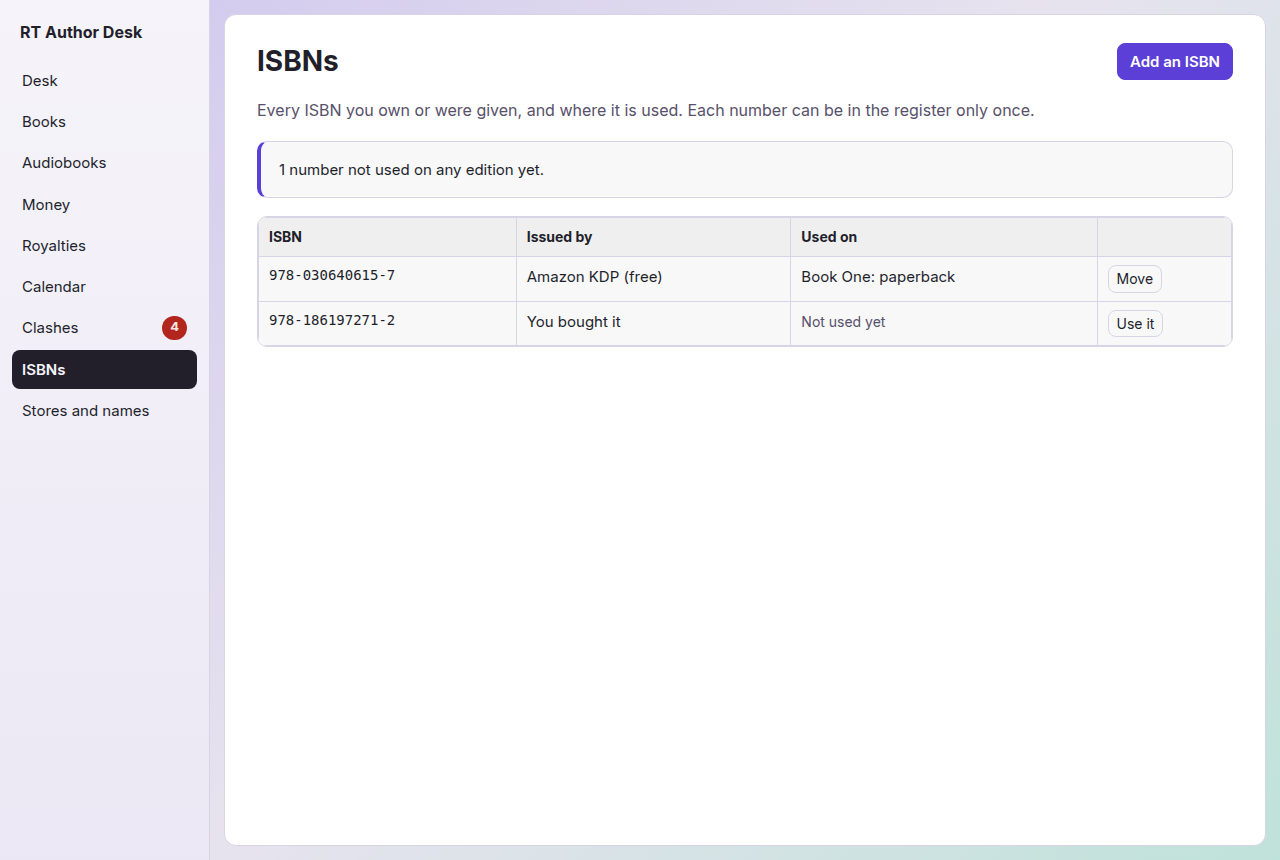
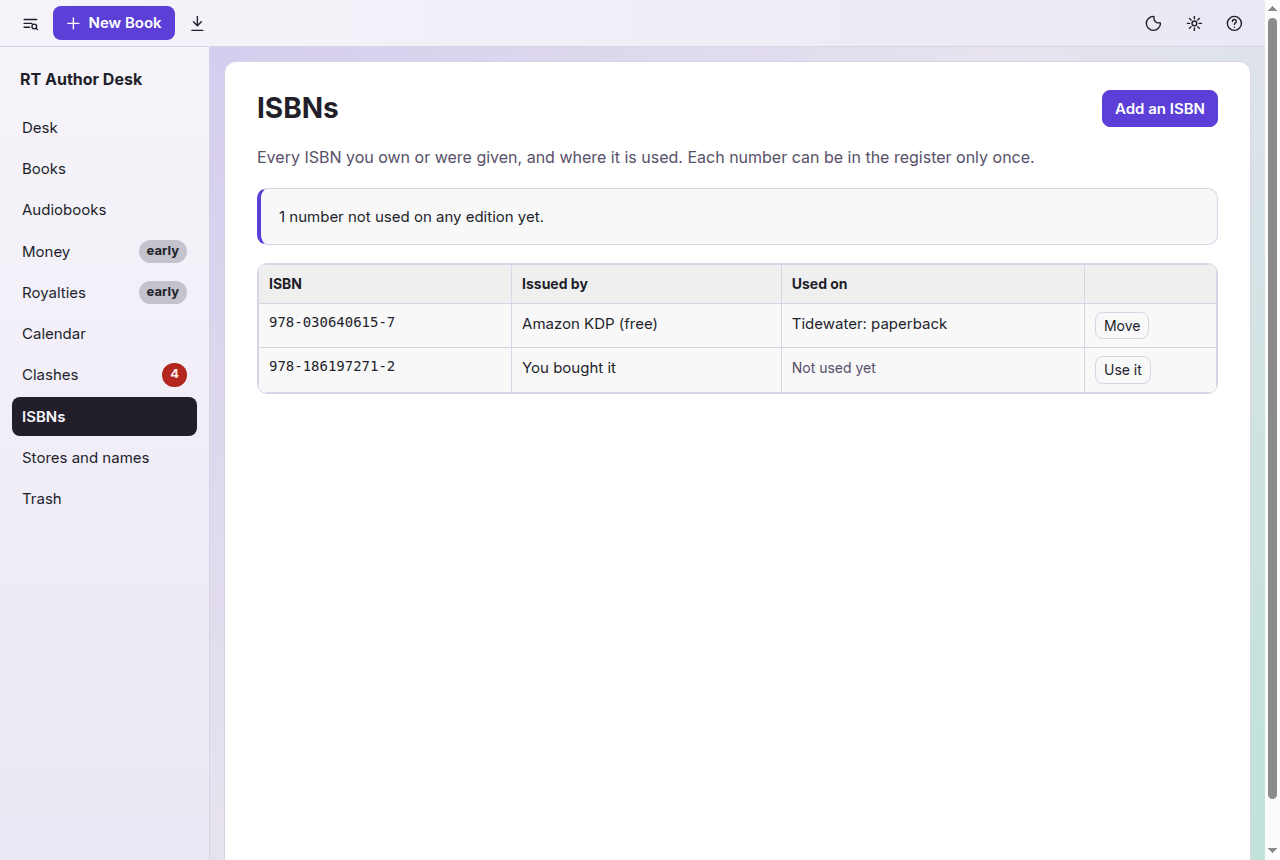
Last touches for 1.0.0: the toolbar never hides what has the focus, a new screen starts at its top, new screenshots, and the self-test checks more
The toolbar stays at the top, and the page now scrolls to stop below it: focusing a control no longer leaves it under the toolbar (WCAG 2.2, Focus
Not Obscured), and a new screen starts at its top, which it did not when the last one was scrolled (the page scrolls, not the screen). A test tabs
through a tall page and checks every control is in view, and fails when either half of the fix is taken away.

The README's pictures are made again from the made-up catalog by npm run screenshots, with the toolbar, and three new ones: Go to, credits, and
your own colours. The built-in self-test also checks the menus and their commands, the colour maths, About's links and details, and the icon
About shows (24 checks now). The changelog says 22 November 2026, and the decisions file has the three decisions of this stretch.

diff --git a/src/main/self-test.js b/src/main/self-test.js
@@ -111,8 +111,18 @@ function runChecks(dir, version) {
   const listed = readInstalled(shared)[0];
   check('the installed-list file says which version is here', wrote && listed?.id === 'rt-author-desk' && listed.version === String(version ?? '0'));
   const looks = new Settings(dir);
-  looks.save({ theme: 'dusk', textSize: 17 });
-  check('the look is remembered', new Settings(dir).values.theme === 'dusk' && new Settings(dir).values.textSize === 17);
+  looks.save({ theme: 'dusk', textSize: 17, brand: { accent: '#e8590c' } });
+  check('the look is remembered, with your own colours', new Settings(dir).values.theme === 'dusk' && new Settings(dir).values.textSize === 17 && new Settings(dir).values.brand.accent === '#e8590c');
+  // The menus and the commands Go to can run, your own colours worked out to be readable, and what About says and shows are all in the build.
+  const { collectCommands, menuTemplate } = require('./menu');
+  const commands = collectCommands(menuTemplate({ send() {}, version: version ?? '0', platform: process.platform })).size;
+  check('the menus and their commands are in the build', commands > 30, String(commands));
+  const { brandTokens } = require('../shared/brand');
+  const { THEMES } = require('../shared/themes');
+  check('your own colours can be worked out', Object.keys(brandTokens(THEMES.light, { accent: '#e8590c', panel: '#14432f' })).length >= 8);
+  const { aboutLinks, detailsText } = require('../shared/about');
+  check('About has its links and its details', aboutLinks('1.0.0').length === 4 && detailsText({ version: '1', electron: '1', chrome: '1', node: '1', os: 'x' }).split('\n').length === 3);
+  check('the icon About shows is in the build', fs.existsSync(path.join(__dirname, '..', 'renderer', 'icon.svg')));
 
   return { checks, versions: { sqlite: info.sqlite, cipher: info.cipher, step: info.step } };
 }

diff --git a/src/renderer/style.css b/src/renderer/style.css
@@ -40,6 +40,8 @@
 :root[data-colors="safe"][data-tone="dark"] { --problem: #ff9a5c; --problem-bg: #3b1f10; --check: #eaa6d2; --check-bg: #3a1b2d; --good: #7cc4f5; --good-bg: #0f2b40; }
 :root[data-theme="contrast"] { --check: #ffffff; --check-bg: #000000; --good: #ffffff; --good-bg: #000000; }
 * { box-sizing: border-box; }
+/* The toolbar stays at the top, so whatever is scrolled to (a focused control, a link to a part of the page) stops below it, not under it. */
+html { scroll-padding-top: calc(var(--bars-h, 0px) + 12px); }
 body { margin: 0; background: var(--t-desk) var(--t-desk-image) fixed; color: var(--ink); font-size: 1rem; line-height: 1.55; }
 :focus-visible { outline: 3px solid var(--focus); outline-offset: 2px; }
 .skip { position: absolute; left: -999px; top: 0; background: var(--surface); padding: 8px 12px; z-index: 10; }

diff --git a/src/renderer/app.js b/src/renderer/app.js
@@ -39,8 +39,8 @@
       drawNav(name, clashes.filter((c) => c.severity === 'problem').length, binned.length);
       view.replaceChildren(...[].concat(content).filter(Boolean)); // a screen may leave a section out as null
       if (moved) {
-        view.scrollTo(0, 0);
-        if (opened) view.focus(); // a new screen takes the focus, so a screen reader says where you are
+        document.scrollingElement.scrollTo(0, 0); // a new screen starts at its top (the page scrolls, not the screen)
+        if (opened) view.focus({ preventScroll: true }); // a new screen takes the focus, so a screen reader says where you are
       }
       opened = true;
       document.title = `${view.querySelector('h1')?.textContent || 'RT Author Desk'} · RT Author Desk`;

diff --git a/docs/decisions.md b/docs/decisions.md
@@ -90,6 +90,16 @@ These follow the plan and fill gaps in it. Any can be changed.
     what is missing. This was chosen when contributors were built, ahead of 1.0.0 at the owner's request.
 36. **A person is in the list once, by name,** and a person who is still credited can't be removed. Credits are one person in one role
     on one edition, from a fixed list of roles (and "other", with a note), so a role needs no new code.
+37. **The menus are the list of commands.** Go to (`Ctrl+K`, then `>`) runs any command in the menus by name, taken from the menus
+    themselves, so a command is written once and the menus can stay short, as RT Markdown Reader's are. The window can only ask for a
+    command by its id, and only a command with an action of its own can be run.
+38. **Your own colours are worked out, not trusted.** Customize Theme keeps three colours as checked `#rrggbb` values, and the words on
+    them are changed only as much as it takes to be read (the maths is Reader's, copied). The window can only set a few named variables,
+    and a test measures the result over hundreds of colours in every theme. High Contrast ignores them, and Glass stays solid while a
+    panel or background colour is in use.
+39. **Accessibility is checked by programs, not by eye.** Names for a screen reader, the keyboard order, the focus ring, the border of a
+    field, Windows high contrast and colour blindness are tested on the real page, and each check was shown to fail when what it guards
+    is taken away. A new button without a name fails a test instead of reaching someone who cannot see the problem.
 
 ## To check before or during the build
 

diff --git a/README.md b/README.md
@@ -44,7 +44,11 @@ own books.
 </tr>
 <tr>
 <td><img src="docs/screenshots/help.png" alt="The Help Center, open on the guide to clashes"><br><b>Help.</b> Short, searchable guides, and a tour of a made-up catalog.</td>
-<td></td>
+<td><img src="docs/screenshots/goto.png" alt="Go to: a box listing the screens and the books, for jumping to one or running a command by name"><br><b>Go to.</b> <code>Ctrl+K</code> finds a screen or a book. Start with <code>&gt;</code> to run any command by name.</td>
+</tr>
+<tr>
+<td><img src="docs/screenshots/credits.png" alt="A book's editions, each with the people credited on it"><br><b>Credits.</b> Editors, cover artists and narrators on each edition, and which credits each store shows.</td>
+<td><img src="docs/screenshots/customize.png" alt="Customize Theme: swatches for the accent, panel and background colours, with the app already in teal and navy"><br><b>Your own colours.</b> Pick an accent, panel and background. The words on them stay readable.</td>
 </tr>
 </table>
 

diff --git a/CHANGELOG.md b/CHANGELOG.md
@@ -6,7 +6,7 @@ The format follows [Keep a Changelog](https://keepachangelog.com/en/1.1.0/) and 
 
 ## [Unreleased]
 
-## [1.0.0] - 2026-11-18
+## [1.0.0] - 2026-11-22
 
 The catalog. Version 1.0 is the catalog and everything needed to run it on a computer every day. The owner decided, after trying the first test
 build (`1.0.0-alpha.0`), that the app leaves alpha when the catalog is solid and doesn't wait for the money, which is 1.1.
